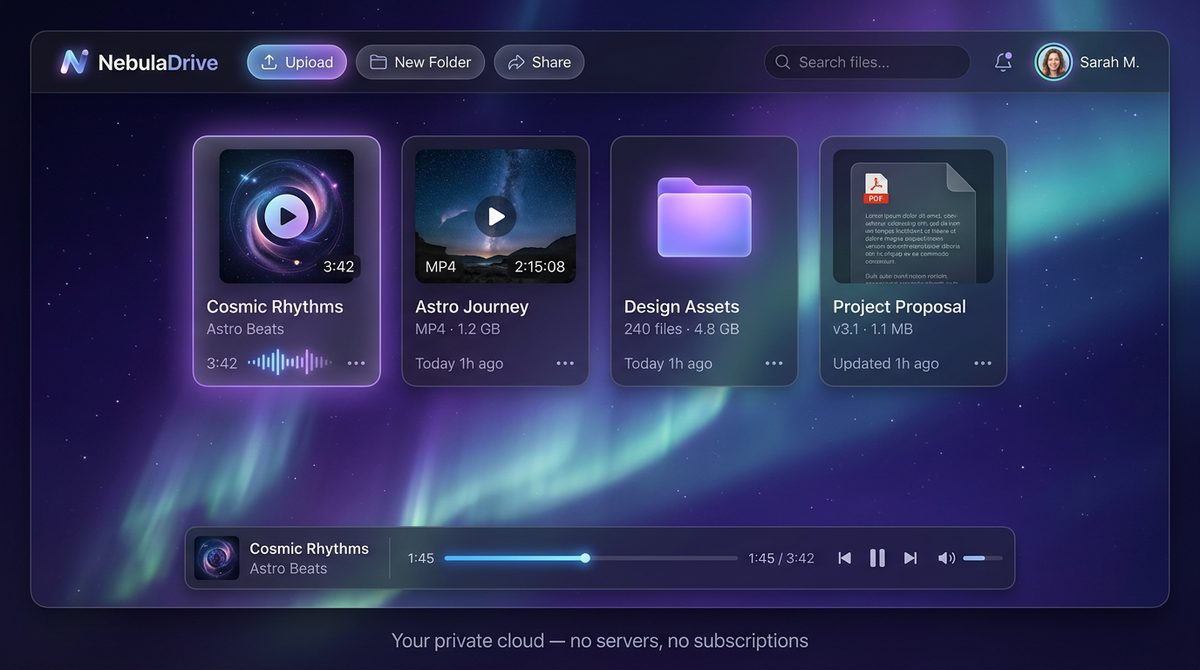
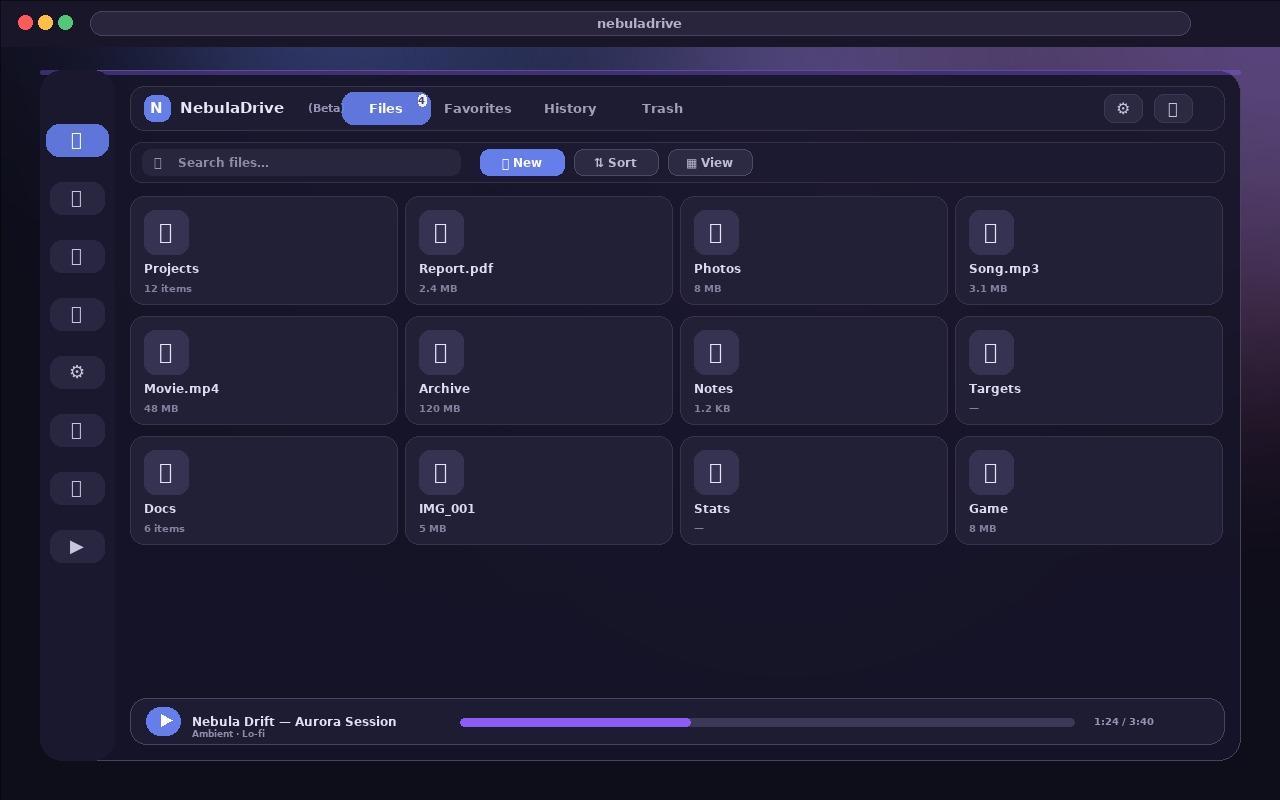
Remove toggle glow effects, settings line, remake preview + tour
- Stripped stray glow/shadow effects off all toggle controls (selection
  toggle buttons, icon toggle slider, pswitch, toggle-switch, settings
  menu switches) — clean accent states only
- Removed the border 'UI line' around each settings section
- Remade the preview image (preview.jpg) as a detailed, accurate app
  mockup: browser chrome, sidebar, navbar with tabs + badge, toolbar,
  file grid, and media player bar — replaces the stale screenshot
- Remade the guided tour: smoother glass card, softer spotlight pulse,
  direction-aware slide transitions on next/back, cleaner progress bar
  and step indicator, tidier action buttons

diff --git a/index.html b/index.html
@@ -3529,108 +3529,90 @@
       font-size: 0.75rem;
       color: var(--text-secondary);
       cursor: pointer;
-      transition: all 0.35s cubic-bezier(0.22, 1, 0.36, 1);
+      transition: background 0.25s ease, color 0.25s ease, border-color 0.25s ease;
       display: flex;
       align-items: center;
       gap: 6px;
-      position: relative;
-      overflow: hidden;
-    }
-    .selection-toggle-btn::before {
-      content: '';
-      position: absolute;
-      inset: 0;
-      border-radius: 30px;
-      background: var(--accent);
-      opacity: 0;
-      transition: opacity 0.3s ease, transform 0.3s ease;
-      transform: scale(0.92);
-    }
-    .selection-toggle-btn:hover::before {
-      opacity: 0.08;
-      transform: scale(1);
     }
     .selection-toggle-btn:hover {
-      background: rgba(255, 255, 255, 0.06);
-      transform: translateY(-2px) scale(1.04);
-      border-color: rgba(102, 126, 234, 0.3);
-      box-shadow: 0 4px 16px rgba(0, 0, 0, 0.08);
+      background: rgba(255, 255, 255, 0.07);
+      color: var(--text);
     }
     .selection-toggle-btn:active {
-      transform: scale(0.94) translateY(1px);
+      background: rgba(255, 255, 255, 0.1);
       transition-duration: 0.1s;
     }
     .selection-toggle-btn.active {
       background: var(--accent);
       color: white;
       border-color: transparent;
-      box-shadow: 0 4px 18px rgba(102, 126, 234, 0.4);
-      transform: translateY(-1px);
-    }
-    .selection-toggle-btn.active::before {
-      opacity: 0;
     }
     .selection-toggle-btn .toggle-dot {
       width: 7px;
       height: 7px;
       border-radius: 50%;
       background: var(--text-secondary);
-      transition: all 0.4s cubic-bezier(0.22, 1, 0.36, 1);
+      transition: background 0.25s ease, transform 0.25s cubic-bezier(0.22, 1, 0.36, 1);
     }
     .selection-toggle-btn.active .toggle-dot {
       background: #4caf50;
-      box-shadow: 0 0 16px rgba(76, 175, 80, 0.6);
       transform: scale(1.2);
     }
     /* ─── GUIDED TOUR ─── */
     .tour-btn { border-style: dashed; }
-    .tour-btn .toggle-dot { background: var(--accent-solid); box-shadow: 0 0 10px var(--glow-color); }
+    .tour-btn .toggle-dot { background: var(--accent-solid); }
     .tour-overlay {
       position: fixed; inset: 0; z-index: 6000;
-      background: rgba(4, 3, 12, 0.72);
-      backdrop-filter: blur(2px);
-      -webkit-backdrop-filter: blur(2px);
-      animation: tourFade 0.3s ease;
+      background: rgba(4, 3, 12, 0.68);
+      backdrop-filter: blur(3px);
+      -webkit-backdrop-filter: blur(3px);
+      animation: tourFade 0.4s cubic-bezier(0.22, 1, 0.36, 1);
     }
     @keyframes tourFade { from { opacity: 0; } to { opacity: 1; } }
     .tour-spotlight {
       position: relative !important; z-index: 6001 !important;
-      outline: 3px solid var(--accent-solid) !important;
-      outline-offset: 4px;
-      border-radius: 14px;
-      box-shadow: 0 0 0 6px var(--glow-color), 0 0 44px var(--glow-color) !important;
-      animation: tourPulse 1.6s ease-in-out infinite;
+      outline: 2px solid var(--accent-solid) !important;
+      outline-offset: 5px;
+      border-radius: 16px;
+      box-shadow: 0 0 0 1px rgba(102, 126, 234, 0.25), 0 8px 30px rgba(102, 126, 234, 0.28) !important;
+      animation: tourPulse 2s ease-in-out infinite;
     }
     @keyframes tourPulse {
-      0%, 100% { box-shadow: 0 0 0 4px var(--glow-color), 0 0 24px var(--glow-color); }
-      50% { box-shadow: 0 0 0 9px var(--glow-color), 0 0 54px var(--glow-color); }
+      0%, 100% { box-shadow: 0 0 0 1px rgba(102, 126, 234, 0.25), 0 6px 20px rgba(102, 126, 234, 0.22); }
+      50% { box-shadow: 0 0 0 1px rgba(102, 126, 234, 0.4), 0 10px 40px rgba(102, 126, 234, 0.38); }
     }
     .tour-card {
       position: fixed; z-index: 6002;
-      width: min(340px, calc(100vw - 32px));
-      background: linear-gradient(180deg, rgba(32, 29, 58, 0.98), rgba(18, 16, 35, 0.98));
-      border: 1px solid rgba(102, 126, 234, 0.35);
-      border-radius: 20px;
-      padding: 18px 18px 14px;
-      box-shadow: 0 30px 80px rgba(0, 0, 0, 0.6), 0 0 30px var(--glow-color);
-      animation: tourCardIn 0.35s cubic-bezier(0.22, 1, 0.36, 1);
+      width: min(350px, calc(100vw - 32px));
+      background: linear-gradient(180deg, rgba(34, 31, 60, 0.97), rgba(20, 18, 38, 0.97));
+      border: 1px solid rgba(102, 126, 234, 0.4);
+      border-radius: 22px;
+      padding: 20px 20px 16px;
+      box-shadow: 0 36px 90px rgba(0, 0, 0, 0.65), 0 0 0 1px rgba(255, 255, 255, 0.05);
+      animation: tourCardIn 0.45s cubic-bezier(0.22, 1, 0.36, 1);
     }
-    body.light .tour-card, body.platinum .tour-card { background: linear-gradient(180deg, #ffffff, #f2f5fb); }
-    @keyframes tourCardIn { from { opacity: 0; transform: translateY(12px) scale(0.95); } to { opacity: 1; transform: none; } }
-    .tour-step { font-size: 0.66rem; font-weight: 800; letter-spacing: 0.8px; text-transform: uppercase; color: var(--accent-solid); }
-    .tour-title { font-size: 1rem; font-weight: 800; color: var(--text); margin: 4px 0 6px; }
-    .tour-desc { font-size: 0.82rem; line-height: 1.55; color: var(--text-secondary); }
-    .tour-progress { height: 5px; border-radius: 4px; background: rgba(255, 255, 255, 0.1); margin: 12px 0 10px; overflow: hidden; }
-    .tour-progress > div { height: 100%; background: var(--accent); border-radius: 4px; transition: width 0.35s cubic-bezier(0.22, 1, 0.36, 1); box-shadow: 0 0 10px var(--glow-color); }
+    body.light .tour-card, body.platinum .tour-card { background: linear-gradient(180deg, #ffffff, #f0f4fb); }
+    @keyframes tourCardIn { from { opacity: 0; transform: translateY(16px) scale(0.94); } to { opacity: 1; transform: none; } }
+    .tour-card.tour-step-in { animation: tourStepIn 0.42s cubic-bezier(0.22, 1, 0.36, 1); }
+    .tour-card.tour-step-back { animation: tourStepBack 0.42s cubic-bezier(0.22, 1, 0.36, 1); }
+    @keyframes tourStepIn { from { opacity: 0; transform: translateX(24px) scale(0.97); } to { opacity: 1; transform: none; } }
+    @keyframes tourStepBack { from { opacity: 0; transform: translateX(-24px) scale(0.97); } to { opacity: 1; transform: none; } }
+    .tour-step { font-size: 0.64rem; font-weight: 800; letter-spacing: 1.1px; text-transform: uppercase; color: var(--accent-solid); display: flex; align-items: center; gap: 6px; }
+    .tour-step::before { content: ''; width: 16px; height: 3px; border-radius: 3px; background: var(--accent-solid); }
+    .tour-title { font-size: 1.05rem; font-weight: 800; color: var(--text); margin: 6px 0 6px; letter-spacing: -0.2px; }
+    .tour-desc { font-size: 0.84rem; line-height: 1.6; color: var(--text-secondary); }
+    .tour-progress { height: 6px; border-radius: 5px; background: rgba(255, 255, 255, 0.1); margin: 14px 0 10px; overflow: hidden; }
+    .tour-progress > div { height: 100%; background: linear-gradient(90deg, var(--accent-solid), #a78bfa); border-radius: 5px; transition: width 0.5s cubic-bezier(0.22, 1, 0.36, 1); }
     .tour-actions { display: flex; gap: 8px; }
     .tour-actions button {
-      flex: 1; padding: 10px; border-radius: 12px; font-weight: 700; font-size: 0.78rem; cursor: pointer;
+      flex: 1; padding: 11px; border-radius: 13px; font-weight: 700; font-size: 0.8rem; cursor: pointer;
       border: 1px solid var(--glass-border); background: rgba(255, 255, 255, 0.06); color: var(--text);
-      transition: transform 0.25s cubic-bezier(0.22, 1, 0.36, 1), background 0.2s ease;
+      transition: transform 0.2s cubic-bezier(0.22, 1, 0.36, 1), background 0.2s ease, border-color 0.2s ease;
     }
-    .tour-actions button:active { transform: scale(0.93); }
-    .tour-actions .tour-next { background: var(--accent); border-color: transparent; color: #fff; box-shadow: 0 4px 18px var(--glow-color); }
-    .tour-actions .tour-next:hover { filter: brightness(1.1); }
+    .tour-actions button:hover { background: rgba(255, 255, 255, 0.1); border-color: rgba(102, 126, 234, 0.4); }
+    .tour-actions button:active { transform: scale(0.94); }
+    .tour-actions .tour-next { background: var(--accent); border-color: transparent; color: #fff; }
+    .tour-actions .tour-next:hover { filter: brightness(1.12); }
 
     .select-bar {
       display: none;
@@ -5505,7 +5487,6 @@
       border-radius: 10px;
       transition: transform 0.3s cubic-bezier(0.22, 1, 0.36, 1);
       z-index: 1;
-      box-shadow: 0 2px 8px rgba(102, 126, 234, 0.3);
     }
     .icon-toggle-slider.pos-1 { transform: translateX(100%); }
     .icon-toggle-slider.pos-2 { transform: translateX(200%); }
@@ -7708,7 +7689,7 @@
     .media-secondary-actions button, .fullscreen-btn, .cinema-btn { color: var(--text-secondary); background: var(--glass); border: 1px solid var(--glass-border); }
     .media-secondary-actions button:hover, .fullscreen-btn:hover, .cinema-btn:hover { color: var(--text); background: var(--glass-hover); border-color: var(--accent-solid); box-shadow: 0 0 14px var(--glow-color); }
     .media-secondary-actions button.is-on, .fullscreen-btn.is-on, .cinema-btn.is-on { color: #fff; background: var(--accent); border-color: transparent; box-shadow: 0 0 14px var(--glow-color); }
-    .pswitch[aria-checked="true"] { border-color: var(--accent-solid); box-shadow: 0 0 12px var(--glow-color); }
+    .pswitch[aria-checked="true"] { border-color: var(--accent-solid); }
     /* --- keyboard-shortcuts button: never on touch / iPhone --- */
     @media (pointer: coarse) { .keybinds-btn, #mediaKeybindsBtn { display: none !important; } }
     body.is-ios .keybinds-btn, body.is-ios #mediaKeybindsBtn, body.is-touch .keybinds-btn, body.is-touch #mediaKeybindsBtn { display: none !important; }
@@ -8943,10 +8924,10 @@
       background: rgba(255, 255, 255, 0.1);
       cursor: pointer;
       padding: 0;
-      transition: background 0.35s cubic-bezier(0.22, 1, 0.36, 1), box-shadow 0.3s ease, border-color 0.3s ease, transform 0.15s ease;
+      transition: background 0.35s cubic-bezier(0.22, 1, 0.36, 1), border-color 0.3s ease, transform 0.15s ease;
       box-shadow: inset 0 2px 6px rgba(0, 0, 0, 0.3);
     }
-    .pswitch:hover { border-color: var(--accent-solid); box-shadow: inset 0 2px 6px rgba(0,0,0,0.3), 0 0 12px var(--glow-color); }
+    .pswitch:hover { border-color: var(--accent-solid); }
     .pswitch:active { transform: scale(0.9); }
     .pswitch .pswitch-thumb {
       position: absolute;
@@ -8962,7 +8943,7 @@
     .pswitch.on {
       background: var(--accent);
       border-color: transparent;
-      box-shadow: 0 0 16px var(--glow-color), inset 0 1px 0 rgba(255, 255, 255, 0.35);
+      box-shadow: inset 0 1px 0 rgba(255, 255, 255, 0.35);
     }
     .pswitch.on .pswitch-thumb {
       transform: translateX(20px);
@@ -11014,13 +10995,13 @@
       flex-shrink: 0;
       box-shadow: inset 0 2px 6px rgba(0, 0, 0, 0.25);
     }
-    .toggle-switch:hover { border-color: var(--accent-solid); box-shadow: inset 0 2px 6px rgba(0,0,0,0.25), 0 0 12px var(--glow-color); }
+    .toggle-switch:hover { border-color: var(--accent-solid); }
     .toggle-switch:focus-visible { outline: 2px solid var(--accent-solid); outline-offset: 2px; }
     .toggle-switch:active { transform: scale(0.92); }
     .toggle-switch.active {
       background: var(--accent);
       border-color: transparent;
-      box-shadow: 0 3px 14px var(--glow-color), inset 0 1px 0 rgba(255, 255, 255, 0.3);
+      box-shadow: inset 0 1px 0 rgba(255, 255, 255, 0.3);
     }
     .toggle-switch .toggle-knob {
       width: 19px;
@@ -13726,8 +13707,8 @@ body.light .account-actions .icon-btn{color:#1a1d2e}
 #settingsModal .settings-header{position:sticky;top:-22px;z-index:2;margin:-22px -22px 14px;padding:20px 22px 14px;background:var(--card-bg,rgba(22,20,44,.97));border-bottom:1px solid var(--glass-border);display:flex;align-items:center;gap:12px}
 #settingsModal .settings-x{width:34px;height:34px;border-radius:12px;border:1px solid var(--glass-border);background:rgba(255,255,255,.06);color:var(--text-secondary);font-size:1.15rem;cursor:pointer;transition:transform .3s cubic-bezier(.34,1.56,.64,1),background .2s,color .2s}
 #settingsModal .settings-x:hover{transform:rotate(90deg);background:rgba(255,80,80,.22);color:#fff}
-#settingsModal .settings-section{background:rgba(255,255,255,.035);border:1px solid var(--glass-border);border-radius:18px;padding:16px;margin-bottom:12px;transition:border-color .25s,background .25s}
-#settingsModal .settings-section:hover{border-color:rgba(102,126,234,.3);background:rgba(255,255,255,.05)}
+#settingsModal .settings-section{background:rgba(255,255,255,.04);border-radius:18px;padding:16px;margin-bottom:12px;transition:background .25s}
+#settingsModal .settings-section:hover{background:rgba(255,255,255,.06)}
 #settingsModal .settings-section-title{font-size:.72rem;font-weight:700;letter-spacing:1.1px;text-transform:uppercase;color:var(--text-secondary);display:flex;align-items:center;gap:8px;margin-bottom:12px}
 #settingsModal .title-icon{width:26px;height:26px;border-radius:9px;display:grid;place-items:center;background:rgba(102,126,234,.16);color:#a5b4fc}
 #settingsModal .storage-grid{display:grid;grid-template-columns:repeat(2,1fr);gap:8px}
@@ -13875,10 +13856,9 @@ body.light .account-actions .icon-btn{color:#1a1d2e}
 @keyframes gearSpinIn { from { opacity: 0; transform: rotate(-90deg) scale(.6); } to { opacity: 1; transform: none; } }
 #settingsModal .settings-header .subtitle{ font-size: .74rem; color: var(--text-secondary); margin-top: 2px; }
 #settingsModal .settings-section{
-  transition: border-color .3s ease, background .3s ease, transform .3s var(--nd-ease), box-shadow .3s ease;
+  transition: background .3s ease, transform .3s var(--nd-ease), box-shadow .3s ease;
 }
 #settingsModal .settings-section:hover{
-  border-color: rgba(102,126,234,.4);
   transform: translateY(-2px);
   box-shadow: 0 10px 28px rgba(0,0,0,.25);
 }
@@ -14164,7 +14144,7 @@ body.has-mini-player .neb-toast-stack{bottom:96px}
 #settingsMenu .pswitch{position:relative;display:inline-block;flex-shrink:0;width:50px !important;min-width:50px !important;height:28px !important;min-height:28px !important;padding:0 !important;border-radius:999px;border:1px solid rgba(255,255,255,.16) !important;background:rgba(255,255,255,.12) !important;box-shadow:inset 0 2px 5px rgba(0,0,0,.3) !important;cursor:pointer;transition:background .3s ease,border-color .3s ease,box-shadow .3s ease,transform .15s ease}
 #settingsMenu .pswitch:hover{border-color:var(--accent-solid) !important;background:rgba(255,255,255,.18) !important}
 #settingsMenu .pswitch .pswitch-thumb{position:absolute;top:2px !important;left:2px !important;width:22px !important;height:22px !important;border-radius:50%;background:#fff;box-shadow:0 2px 6px rgba(0,0,0,.4);transform:none;transition:transform .38s cubic-bezier(.34,1.56,.64,1),width .2s ease}
-#settingsMenu .pswitch.on,#settingsMenu .pswitch[aria-checked="true"],#settingsMenu .pswitch.on:hover,#settingsMenu .pswitch[aria-checked="true"]:hover{background:var(--accent) !important;border-color:transparent !important;box-shadow:0 0 14px var(--glow-color),inset 0 1px 0 rgba(255,255,255,.35) !important}
+#settingsMenu .pswitch.on,#settingsMenu .pswitch[aria-checked="true"],#settingsMenu .pswitch.on:hover,#settingsMenu .pswitch[aria-checked="true"]:hover{background:var(--accent) !important;border-color:transparent !important;box-shadow:inset 0 1px 0 rgba(255,255,255,.35) !important}
 #settingsMenu .pswitch.on .pswitch-thumb,#settingsMenu .pswitch[aria-checked="true"] .pswitch-thumb{transform:translateX(22px) !important}
 #settingsMenu .pswitch:active{transform:scale(.94)}
 #settingsMenu .pswitch:active .pswitch-thumb{width:26px !important}
@@ -22453,17 +22433,21 @@ button.primary-btn:hover{
       window.addEventListener('resize', tourPlace);
     }
     function tourKey(e) { if (tourIdx !== -1 && e.key === 'Escape') endTour(); }
-    function showTourStep() {
+    function showTourStep(back) {
       const steps = tourSteps();
       if (tourIdx < 0 || tourIdx >= steps.length) { endTour(); return; }
       document.querySelectorAll('.tour-spotlight').forEach(e => e.classList.remove('tour-spotlight'));
       const s = steps[tourIdx];
       const last = tourIdx === steps.length - 1;
       tourCard.innerHTML = `<div class="tour-step">${tourIdx + 1} / ${steps.length}</div><div class="tour-title">${escapeHtml(t(s.tk))}</div><div class="tour-desc">${escapeHtml(t(s.dk))}</div><div class="tour-progress"><div style="width:${((tourIdx + 1) / steps.length) * 100}%"></div></div><div class="tour-actions">${tourIdx > 0 ? `<button data-tact="back">${escapeHtml(t('tour.back'))}</button>` : ''}<button data-tact="skip">${escapeHtml(t('tour.skip'))}</button><button class="tour-next" data-tact="next">${escapeHtml(t(last ? 'tour.done' : 'tour.next'))}</button></div>`;
+      // smooth direction-aware slide for the new step content
+      tourCard.classList.remove('tour-step-in', 'tour-step-back');
+      void tourCard.offsetWidth;
+      tourCard.classList.add(back ? 'tour-step-back' : 'tour-step-in');
       tourCard.querySelectorAll('[data-tact]').forEach(b => b.addEventListener('click', () => {
         const a = b.dataset.tact;
-        if (a === 'next') { tourIdx++; showTourStep(); }
-        else if (a === 'back') { tourIdx--; showTourStep(); }
+        if (a === 'next') { tourIdx++; showTourStep(false); }
+        else if (a === 'back') { tourIdx--; showTourStep(true); }
         else endTour();
       }));
       if (s.sel) {
@@ -24052,13 +24036,10 @@ button.primary-btn:hover{
     var _sts = showTourStep;
     showTourStep = function(){
       var back = (typeof tourIdx !== 'undefined' && tourIdx < lastStep);
-      _sts();
+      _sts(back);
       try{ lastStep = (typeof tourIdx !== 'undefined') ? tourIdx : -1; }catch(e){}
       try{
         var card = document.querySelector('.tour-card'); if(!card) return;
-        card.classList.remove('tour-step-in', 'tour-step-back');
-        void card.offsetWidth;
-        card.classList.add(back ? 'tour-step-back' : 'tour-step-in');
         var acts = card.querySelector('.tour-actions');
         if(acts && !card.querySelector('.tour-dots') && typeof tourSteps === 'function'){
           var steps = tourSteps();
